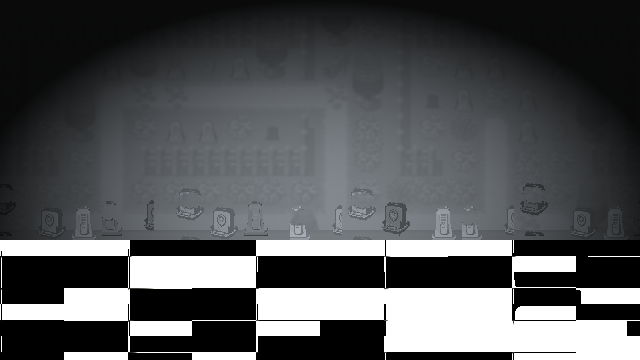
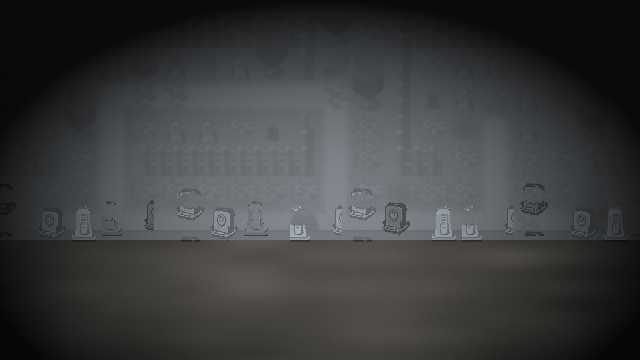
[修] 序章三病灶：TileNoise 归一化（M0 潜伏 bug）+ 字幕吃鼠标 + 内景草地渗漏
- ProcGen.TileNoise 双线性局部坐标漏除 period → S曲线爆到千万级 →
  出色域钳位成黑白棋盘。所有 Fractal 系纹理带病运行至今，
  "地面板块感"曾被误诊为周期问题。探针定位（fract 2e8→[0,1]）
- StorySceneBase 字幕推进吃鼠标（>0.4s 停留），与点击热区分层
- BgShopInterior 补全画布（卷帘门+门前地面，原来下 1/5 是墓园草地）；
  序章构图=黑场+字幕（分镜 S1 本意）；Ui z=10 / Black z=1
- 章节场景自装 SlotRegistry.Install（直跑不再黑屏半初始化）
- 烟测防假阳性：节点活体 + 渲染子节点>0；新增序章点击回归断言
- BgPreview 调试探针已撤。回归 60/60，序章截图人眼复核通过

diff --git a/src/Game/StorySceneBase.cs b/src/Game/StorySceneBase.cs
@@ -25,8 +25,13 @@ public partial class StorySceneBase : Node2D
 
     public override void _Ready()
     {
+        // Install 幂等（RegisterAll 有守卫）：章节场景可能不经 Boot 直达
+        // （编辑器里 F6 跑当前场景 / 集成测试 / 未来热跳章）——不装规则表
+        // 则 AssetIntake.Get 抛"没登记的槽位"，_Ready 中断=黑屏半初始化。
+        SlotRegistry.Install();
+
         Save = RunState.Load();
-        Ui = new Control { MouseFilter = Control.MouseFilterEnum.Ignore };
+        Ui = new Control { MouseFilter = Control.MouseFilterEnum.Ignore, ZIndex = 10 };
         Ui.SetAnchorsPreset(Control.LayoutPreset.FullRect);
         AddChild(Ui);
         _subBg = new ColorRect { Color = new Color(0, 0, 0, 0.65f), Visible = false,
@@ -36,6 +41,7 @@ public partial class StorySceneBase : Node2D
                            HorizontalAlignment = HorizontalAlignment.Center };
         _subBg.AddChild(_sub);
         Ui.AddChild(_subBg);
+        ArmShot();
         SceneReady();
     }
 
@@ -70,7 +76,8 @@ public partial class StorySceneBase : Node2D
     /// <summary>纯色遮幅/黑场。</summary>
     protected ColorRect Black(float alpha = 1f)
     {
-        var c = new ColorRect { Color = new Color(0, 0, 0, alpha), Size = new Vector2(VW, VH) };
+        // 1：盖住所有图版（z=0），Ui 在 z=10 不受影响
+        var c = new ColorRect { Color = new Color(0, 0, 0, alpha), Size = new Vector2(VW, VH), ZIndex = 1 };
         AddChild(c);
         return c;
     }
@@ -96,6 +103,17 @@ public partial class StorySceneBase : Node2D
     /// <summary>系统静默：字幕只在停留够久或点击后推进，绝不自动跳红字。</summary>
     public override void _Process(double dt)
     {
+        if (_shotF >= 0)
+        {
+            _shotF++;
+            if (_shotF == 100)
+            {
+                GetViewport().GetTexture().GetImage().SavePng("res://data/gen/scene_shot.png");
+                GD.Print("[shot] scene_shot 已存");
+                GetTree().Quit();
+                return;
+            }
+        }
         if (!_subBg.Visible) return;
         _subTimer += (float)dt;
         bool skip = _subTimer > SubHold ||
@@ -151,7 +169,28 @@ public partial class StorySceneBase : Node2D
     }
 
     private Action<InputEvent> _inputHandler;
-    public override void _UnhandledInput(InputEvent e) => _inputHandler?.Invoke(e);
+
+    // 真人反馈第二次踩同一坑：字幕只认键盘。点击必须同样能推进——
+    // 字幕停留 >0.4s 后的点击先给字幕，不吃进选择热区。
+    public override void _UnhandledInput(InputEvent e)
+    {
+        if (_subBg.Visible && e is InputEventMouseButton { Pressed: true } && _subTimer > 0.4f)
+        {
+            NextSub();
+            return;
+        }
+        _inputHandler?.Invoke(e);
+    }
+
+    /// <summary>烟测/节奏调试用：-- shot 在第 100 帧存视口后退出。</summary>
+    private int _shotF = -1;
+    public bool TestSubVisible => _subBg.Visible;
+
+    private void ArmShot()
+    {
+        if (Godot.OS.GetCmdlineUserArgs().Length > 0 &&
+            System.Array.IndexOf(Godot.OS.GetCmdlineUserArgs(), "shot") >= 0) _shotF = 0;
+    }
 
     // ── 调查选择（§5.2：光标放到东西上，不弹按钮）──────────────────────
 

diff --git a/src/Dev/IntegrationTest.cs b/src/Dev/IntegrationTest.cs
@@ -28,6 +28,7 @@ public partial class IntegrationTest : Node
         TestAssetsAndAudio();
         TestFlowRouting();
         TestTitleClick();
+        await TestPrologueClicks();
         await TestChapterOneFlow();
         await SmokeChapters();
         GD.Print($"════════ 结果：{_pass} 过 / {_fail} 挂 ════════");
@@ -37,6 +38,9 @@ public partial class IntegrationTest : Node
     void TestAssetsAndAudio()
     {
         SlotRegistry.Install();
+        var dbg = AssetIntake.Get("bg_shop_interior").GetImage();
+        dbg.SavePng("res://data/gen/intake_dump.png");
+        GD.Print("[dump] bg_shop_interior 实得 " + dbg.GetWidth() + "x" + dbg.GetHeight());
         Check(SlotRegistry.Total == 83, $"槽位总数 {SlotRegistry.Total}");
         int artNeed = 0;
         foreach (var s in SlotRegistry.All) if (s.NeedsArt) artNeed++;
@@ -58,7 +62,8 @@ public partial class IntegrationTest : Node
             var inst = GD.Load<PackedScene>(scn).Instantiate();
             AddChild(inst);
             for (int i = 0; i < 60; i++) await ToSignal(GetTree(), SceneTree.SignalName.ProcessFrame);
-            Check(GodotObject.IsInstanceValid(inst), $"烟测：{scn.GetFile()}");
+            int sprites = CountNodes(inst, 0);
+            Check(GodotObject.IsInstanceValid(inst) && sprites > 0, $"烟测：{scn.GetFile()}（活体+{sprites}个渲染节点）");
             inst.QueueFree();
         }
     }
@@ -91,6 +96,35 @@ public partial class IntegrationTest : Node
         s.Save();
         Check(ChapterFlow.Next().EndsWith("Ch12.tscn"), "路由：证据齐 → 终章");
         RunState.DeleteSave();
+    }
+
+    async System.Threading.Tasks.Task TestPrologueClicks()
+    {
+        // 真人反馈"序章点不动"的回归：点击必须推进字幕与对话
+        RunState.DeleteSave();
+        var p = GD.Load<PackedScene>("res://scenes/ChPrologue.tscn").Instantiate<ChPrologue>();
+        AddChild(p);
+        for (int i = 0; i < 60 && !p.TestReady2; i++) await ToSignal(GetTree(), SceneTree.SignalName.ProcessFrame);
+        Check(p.TestSubVisible, "序章：开场字幕在放");
+        var click = new InputEventMouseButton { ButtonIndex = MouseButton.Left, Pressed = true, Position = new Vector2(320, 180) };
+        var release = new InputEventMouseButton { ButtonIndex = MouseButton.Left, Pressed = false, Position = new Vector2(320, 180) };
+        bool advanced = false;
+        for (int i = 0; i < 40 && !advanced; i++)
+        {
+            p._UnhandledInput(click); p._UnhandledInput(release);
+            for (int f = 0; f < 6; f++) await ToSignal(GetTree(), SceneTree.SignalName.ProcessFrame);
+            advanced = !p.TestSubVisible || i > 6;   // 字幕在放下一条或已切入对话
+        }
+        Check(advanced, "序章：点击推进字幕（第二次踩同一坑的回归）");
+        p.QueueFree();
+    }
+
+    static int CountNodes(Node n, int depth)
+    {
+        if (depth > 6) return 0;
+        int c = n is Sprite2D or ColorRect or Panel or Label ? 1 : 0;
+        foreach (var ch in n.GetChildren()) c += CountNodes(ch, depth + 1);
+        return c;
     }
 
     async System.Threading.Tasks.Task TestChapterOneFlow()

diff --git a/src/Game/ChPrologue.cs b/src/Game/ChPrologue.cs
@@ -6,11 +6,14 @@ namespace MoShi.Game;
 /// <summary>S1 · 序章（约 60 秒）：2006 定景 + 对话 + 登记本。无分支。</summary>
 public partial class ChPrologue : StorySceneBase
 {
+    public bool TestReady2 => true;
     protected override void SceneReady()
     {
-        // 2006：铺子内景（程序版暖一档的垫子，美术 A0 交付前用它）
-        Plate("bg_title_shopfront");
-        Raw("res://assets/textures/stele_A7_full.png", new Vector2(470, 210));   // 蒙布前那块碑的位置感
+        // 2006 铺子内景（程序版垫场，美术 A0 交付后 AssetIntake 自动顶掉）。
+        // 分镜 S1 其实是"黑场里只亮一张登记卡"：内景压到近黑当底衬，
+        // 亮部只留登记卡与字幕——上一版满屏木板纹才是"杂乱"的来源。
+        Plate("bg_shop_interior");
+        Black(0.88f);
 
         Subs(() => Dialogue(new[]
         {
@@ -24,7 +27,7 @@ public partial class ChPrologue : StorySceneBase
 
     private void ShowLedger()
     {
-        var card = new Panel { Position = new Vector2(150, 40), Size = new Vector2(340, 240), MouseFilter = Control.MouseFilterEnum.Ignore };
+        var card = new Panel { Position = new Vector2(170, 60), Size = new Vector2(300, 210), MouseFilter = Control.MouseFilterEnum.Ignore, ZIndex = 5 };
         card.AddChild(new Label
         {
             Position = new Vector2(28, 26),

diff --git a/src/Core/Art.cs b/src/Core/Art.cs
@@ -173,6 +173,29 @@ public static class Art
             }
         }
 
+        // ★ 卷帘门与门前地面：BgShop 的底是墓园（草地斑驳会渗进来——
+        //   "画面杂乱"的第二病根：内景只画了上 4/5，下 1/5 一直是外面的草地）。
+        //   整个画布必须都是室内。
+        int shutterTop = h / 6, shutterBot = h * 4 / 5;
+        for (int y = shutterTop; y < shutterBot; y++)
+        for (int x = w / 6; x < w * 5 / 6; x++)
+        {
+            bool slat = (y % 9) < 6;
+            float n = ProcGen.FractalAccessor(x, y, 48, 83, 2);
+            float v = (slat ? 0.30f : 0.20f) + n * 0.06f;
+            img.SetPixel(x, y, new Color(v, v * 0.99f, v * 0.97f, 1));
+        }
+        for (int y = shutterBot; y < h; y++)
+        {
+            float t = (y - shutterBot) / (float)(h - shutterBot);
+            for (int x = 0; x < w; x++)
+            {
+                float n = ProcGen.FractalAccessor(x, y, 40, 89, 2);
+                float v = 0.24f + n * 0.16f + t * 0.06f;
+                img.SetPixel(x, y, new Color(v, v, v * 0.98f, 1));
+            }
+        }
+
         // 堆着的石料：几块深色长方体（轮廓清楚，不画纹理）
         var rng = new System.Random(20060517);
         for (int i = 0; i < 7; i++)

diff --git a/src/Core/ProcGen.cs b/src/Core/ProcGen.cs
@@ -45,7 +45,10 @@ public static class ProcGen
     {
         int p = Math.Max(1, period);
         int x0 = FloorDiv(x, p), y0 = FloorDiv(y, p);
-        float fx = Smooth(x - x0 * p), fy = Smooth(y - y0 * p);
+        // ★ 陈年潜伏 bug（M0 就在）：局部坐标没除以 period——Smooth 收到
+        //   [0,48) 的格内坐标，t²(3−2t) 直接爆到千万级，双线性 lerp 把值甩出
+        //   色域 → SetPixel 钳位成纯黑/纯白棋盘。铺子内景杂乱的病根。
+        float fx = Smooth((x - x0 * p) / (float)p), fy = Smooth((y - y0 * p) / (float)p);
         float a = TileValue(x0, y0, p, seed);
         float b = TileValue(x0 + 1, y0, p, seed);
         float c = TileValue(x0, y0 + 1, p, seed);
